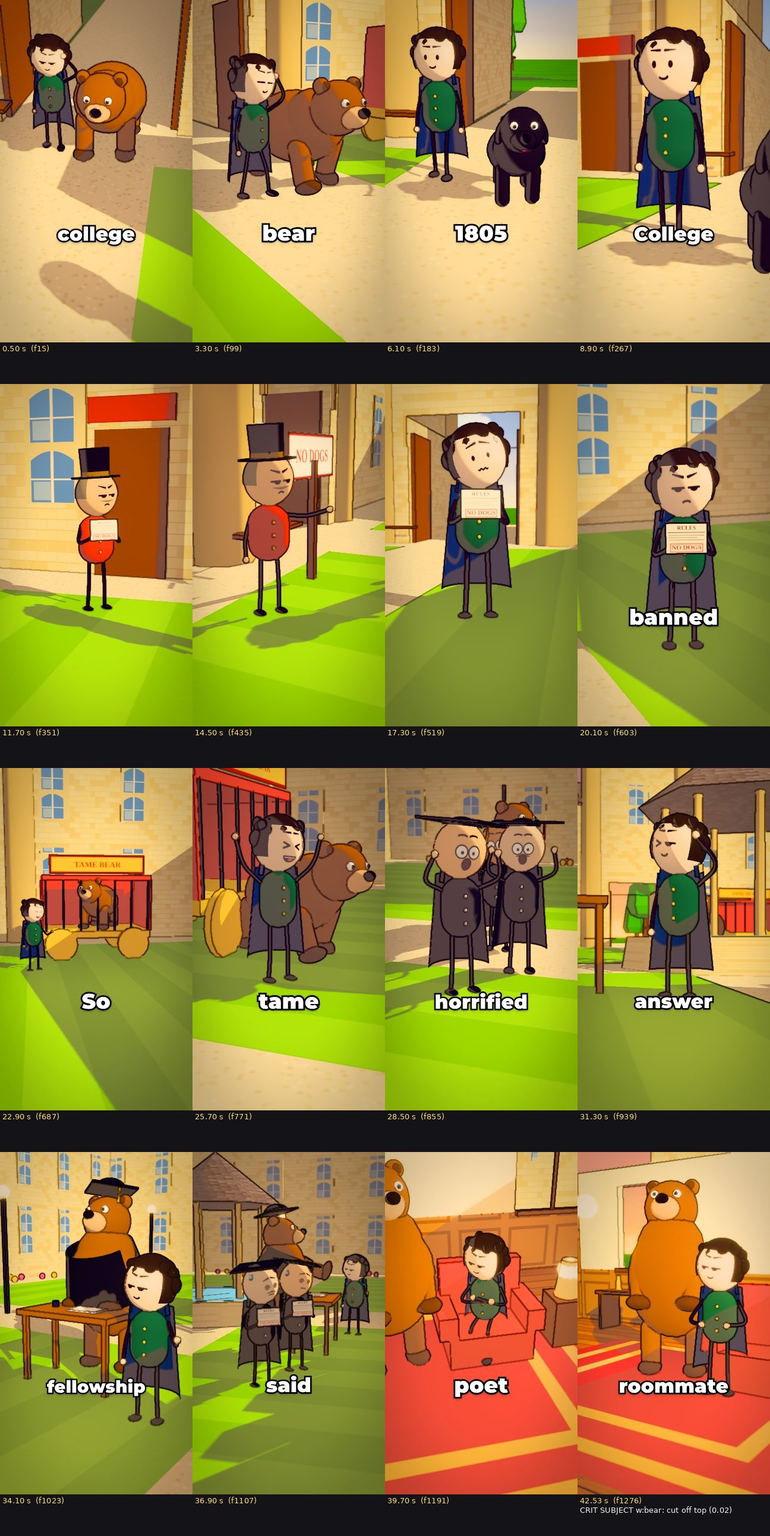
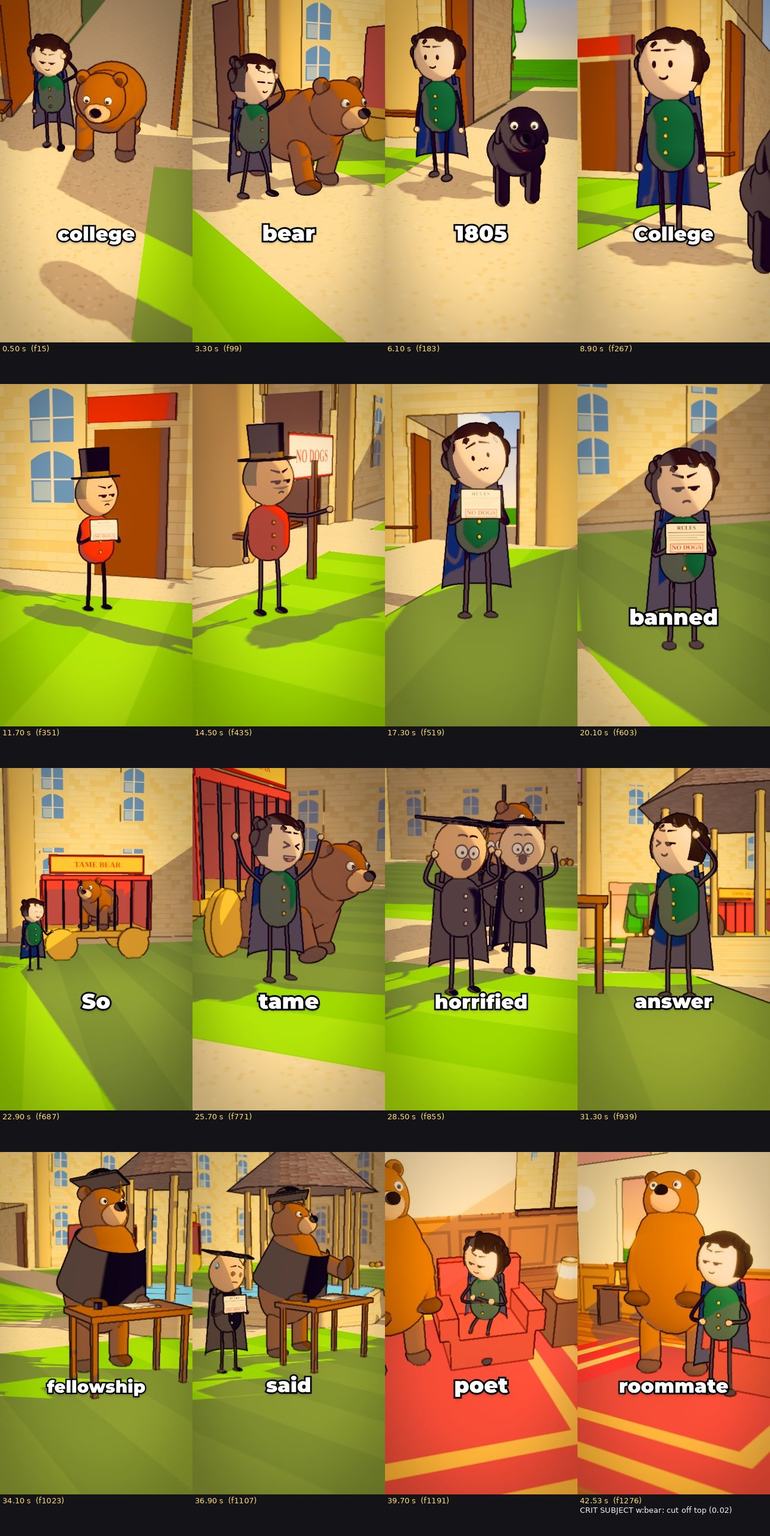
ByronShort: sitting-bear box matched to the model
Claude-Session: https://claude.ai/code/session_012QSShdiUFjV1rrFH5PNZza

Changed region(s): [[0.0, 0.743, 0.5247, 0.9907], [0.7407, 0.743, 1.0, 0.9907]]

diff --git a/video/src/videos/byron/subjects.ts b/video/src/videos/byron/subjects.ts
@@ -7,8 +7,8 @@ import { bearAt, dogAt } from "./story";
 
 const B = (x0: number, y0: number, z0: number, x1: number, y1: number, z1: number) => new THREE.Box3(new THREE.Vector3(x0, y0, z0), new THREE.Vector3(x1, y1, z1));
 export const PROPS: Record<string, (t: number) => THREE.Box3> = {
-  // sitting up, the head and the mortarboard reach ~2.55 m
-  bear: (t) => { const b = bearAt(t), p = b.p, h = 1.6 + 0.85 * b.up; return B(p.x - 0.55, p.y, p.z - 0.6, p.x + 0.55, p.y + h, p.z + 0.6); },
+  // sitting up, the head and the mortarboard reach ~2.3 m
+  bear: (t) => { const b = bearAt(t), p = b.p, h = 1.6 + 0.72 * b.up; return B(p.x - 0.55, p.y, p.z - 0.6, p.x + 0.55, p.y + h, p.z + 0.6); },
   dog: (t) => { const p = dogAt(t).p; return B(p.x - 0.35, 0, p.z - 0.45, p.x + 0.35, 1.05, p.z + 0.45); },
   sign: () => B(LODGE.x + 0.65, 0, GATE_Z + 1.85, LODGE.x + 2.05, 1.95, GATE_Z + 1.95),   // the full sign (it pops up in 0.25 s on "no")
   wagon: () => B(WAGON.x - 1.55, 0, WAGON.z - 0.95, WAGON.x + 1.55, 2.85, WAGON.z + 0.95),
